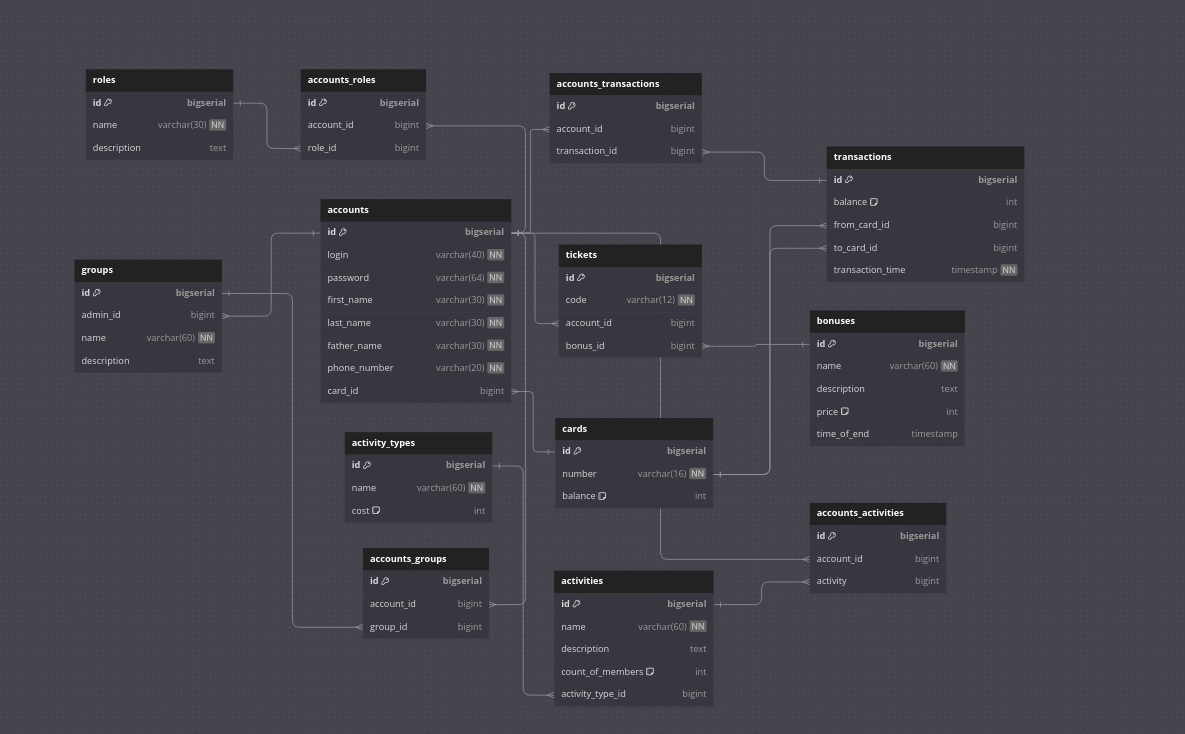
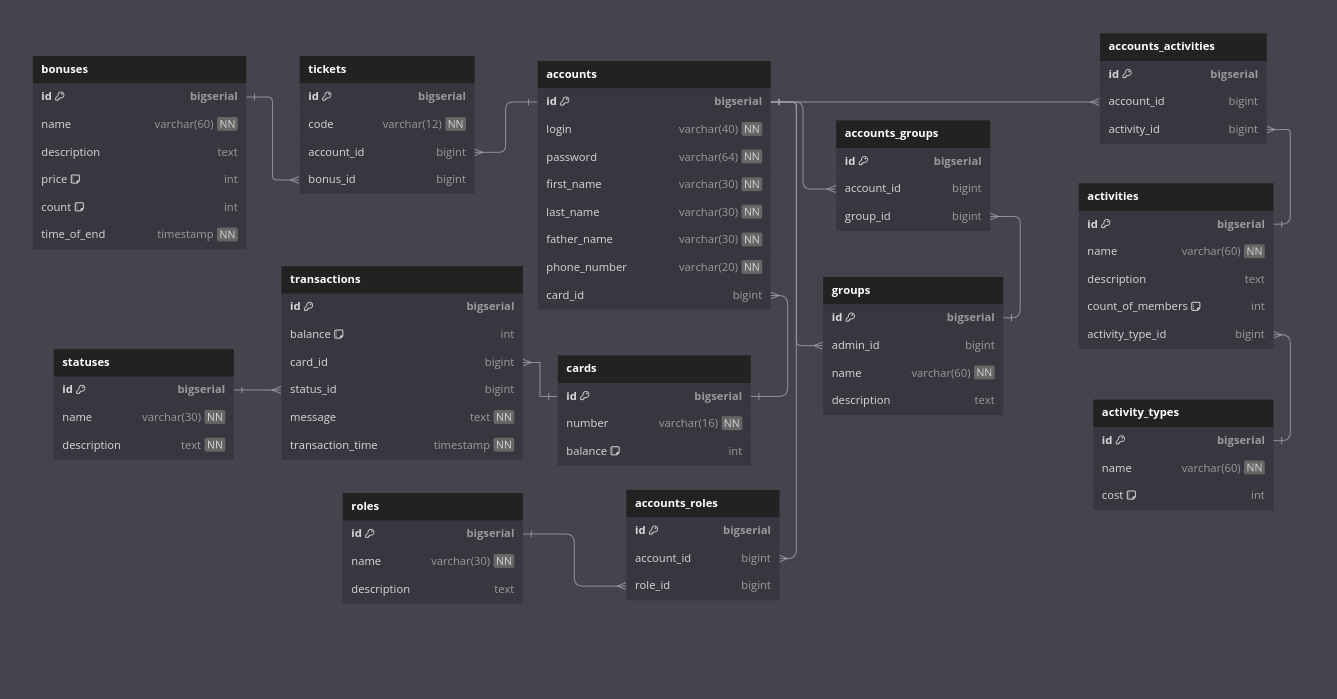
update transactions table

diff --git a/src/main/java/by/grsu/liceum/dto/mapper/TransactionDtoMapper.java b/src/main/java/by/grsu/liceum/dto/mapper/TransactionDtoMapper.java
@@ -1,7 +1,8 @@
 package by.grsu.liceum.dto.mapper;
 
-import by.grsu.liceum.dto.transaction.SentTransactionDto;
-import by.grsu.liceum.dto.transaction.TakenTransactionDto;
+import by.grsu.liceum.dto.status.StatusDto;
+import by.grsu.liceum.dto.transaction.TransactionDto;
+import by.grsu.liceum.entity.Status;
 import by.grsu.liceum.entity.Transaction;
 import lombok.experimental.UtilityClass;
 
@@ -9,33 +10,24 @@ import java.util.Optional;
 
 @UtilityClass
 public class TransactionDtoMapper {
-    public static TakenTransactionDto convertEntityToTakenDto(Transaction source){
+    public static TransactionDto convertEntityToDto(Transaction source){
         return Optional.ofNullable(source)
-                .map(TransactionDtoMapper::buildTakenDto)
+                .map(TransactionDtoMapper::buildDto)
                 .orElse(null);
     }
 
-    public static SentTransactionDto convertEntityToSentDto(Transaction source){
-        return Optional.ofNullable(source)
-                .map(TransactionDtoMapper::buildSentDto)
-                .orElse(null);
-    }
-
-    private static TakenTransactionDto buildTakenDto(Transaction source) {
-        return TakenTransactionDto.builder()
+    private static TransactionDto buildDto(Transaction source) {
+        return TransactionDto.builder()
                 .uuid(source.getId())
                 .balance(source.getBalance())
-                .fromCardNumber(source.getFromCard().getNumber())
+                .status(buildStatus(source.getStatus()))
                 .timeOfTransaction(source.getTimeOfTransaction())
                 .build();
     }
 
-    private static SentTransactionDto buildSentDto(Transaction source) {
-        return SentTransactionDto.builder()
-                .uuid(source.getId())
-                .balance(source.getBalance())
-                .toCardNumber(source.getToCard().getNumber())
-                .timeOfTransaction(source.getTimeOfTransaction())
-                .build();
+    private static StatusDto buildStatus(Status source){
+        return Optional.ofNullable(source)
+                .map(StatusDtoMapper::convertEntityToDto)
+                .orElse(null);
     }
 }

diff --git a/src/main/java/by/grsu/liceum/dto/mapper/CardDtoMapper.java b/src/main/java/by/grsu/liceum/dto/mapper/CardDtoMapper.java
@@ -1,8 +1,7 @@
 package by.grsu.liceum.dto.mapper;
 
 import by.grsu.liceum.dto.card.CardDto;
-import by.grsu.liceum.dto.transaction.SentTransactionDto;
-import by.grsu.liceum.dto.transaction.TakenTransactionDto;
+import by.grsu.liceum.dto.transaction.TransactionDto;
 import by.grsu.liceum.entity.Card;
 import by.grsu.liceum.entity.Transaction;
 import lombok.experimental.UtilityClass;
@@ -24,26 +23,25 @@ public class CardDtoMapper {
                 .uuid(source.getId())
                 .number(source.getNumber())
                 .balance(source.getBalance())
-                .sentTransactions(buildSentTransactions(source.getSentTransactions()))
-                .takenTransactions(buildTakenTransactions(source.getTakenTransactions()))
+                .transactions(buildTransactionDtos(source.getTransactions()))
                 .build();
     }
 
-    private static List<TakenTransactionDto> buildTakenTransactions(List<Transaction> source) {
+    private static List<TransactionDto> buildTransactionDtos(List<Transaction> source) {
         if(source == null)
             return new ArrayList<>();
 
         return source.stream()
-                .map(TransactionDtoMapper::convertEntityToTakenDto)
+                .map(TransactionDtoMapper::convertEntityToDto)
                 .toList();
     }
 
-    private static List<SentTransactionDto> buildSentTransactions(List<Transaction> source) {
+    private static List<TransactionDto> buildSentTransactions(List<Transaction> source) {
         if(source == null)
             return new ArrayList<>();
 
         return source.stream()
-                .map(TransactionDtoMapper::convertEntityToSentDto)
+                .map(TransactionDtoMapper::convertEntityToDto)
                 .toList();
     }
 }

diff --git a/src/main/java/by/grsu/liceum/entity/Status.java b/src/main/java/by/grsu/liceum/entity/Status.java
@@ -1,13 +1,13 @@
 package by.grsu.liceum.entity;
 
+import by.grsu.liceum.entity.enums.StatusConstant;
 import jakarta.persistence.Column;
 import jakarta.persistence.Entity;
 import jakarta.persistence.FetchType;
 import jakarta.persistence.GeneratedValue;
 import jakarta.persistence.GenerationType;
 import jakarta.persistence.Id;
-import jakarta.persistence.JoinColumn;
-import jakarta.persistence.ManyToOne;
+import jakarta.persistence.OneToMany;
 import jakarta.persistence.Table;
 import lombok.AllArgsConstructor;
 import lombok.Builder;
@@ -15,31 +15,28 @@ import lombok.Getter;
 import lombok.NoArgsConstructor;
 import lombok.Setter;
 
-import java.sql.Date;
+import java.util.List;
 
 @Entity
-@Table(name = "transactions")
+@Table(name = "statuses")
 @Builder
 @Getter
 @Setter
 @NoArgsConstructor
 @AllArgsConstructor
-public class Transaction {
+public class Status {
     @Id
     @GeneratedValue(strategy = GenerationType.IDENTITY)
-    @Column(name = "id")
     private long id;
-    @Column(name = "balance")
-    private int balance;
+    @Column(name = "name")
+    private StatusConstant name;
+    @Column(name = "description")
+    private String description;
 
-    @ManyToOne(fetch = FetchType.LAZY)
-    @JoinColumn(name = "card_id")
-    private Card card;
-
-    @ManyToOne(fetch = FetchType.LAZY)
-    @JoinColumn(name = "status_id")
-    private Status status;
-
-    @Column(name = "time_of_transaction")
-    private Date timeOfTransaction;
+    @OneToMany(
+            fetch = FetchType.LAZY,
+            mappedBy = "status",
+            orphanRemoval = true
+    )
+    private List<Transaction> transactions;
 }

diff --git a/src/main/java/by/grsu/liceum/dto/mapper/StatusDtoMapper.java b/src/main/java/by/grsu/liceum/dto/mapper/StatusDtoMapper.java
@@ -1,0 +1,24 @@
+package by.grsu.liceum.dto.mapper;
+
+import by.grsu.liceum.dto.status.StatusDto;
+import by.grsu.liceum.entity.Status;
+import lombok.experimental.UtilityClass;
+
+import java.util.Optional;
+
+@UtilityClass
+public class StatusDtoMapper {
+    public static StatusDto convertEntityToDto(Status source) {
+        return Optional.ofNullable(source)
+                .map(StatusDtoMapper::buildStatus)
+                .orElse(null);
+    }
+
+    private static StatusDto buildStatus(Status source) {
+        return StatusDto.builder()
+                .uuid(source.getId())
+                .name(source.getName().name())
+                .description(source.getDescription())
+                .build();
+    }
+}

diff --git a/src/main/java/by/grsu/liceum/dto/card/CardDto.java b/src/main/java/by/grsu/liceum/dto/card/CardDto.java
@@ -1,7 +1,6 @@
 package by.grsu.liceum.dto.card;
 
-import by.grsu.liceum.dto.transaction.SentTransactionDto;
-import by.grsu.liceum.dto.transaction.TakenTransactionDto;
+import by.grsu.liceum.dto.transaction.TransactionDto;
 import lombok.AllArgsConstructor;
 import lombok.Builder;
 import lombok.Getter;
@@ -19,6 +18,5 @@ public class CardDto {
     private long uuid;
     private String number;
     private int balance;
-    private List<SentTransactionDto> sentTransactions;
-    private List<TakenTransactionDto> takenTransactions;
+    private List<TransactionDto> transactions;
 }

diff --git a/src/main/java/by/grsu/liceum/dto/status/StatusDto.java b/src/main/java/by/grsu/liceum/dto/status/StatusDto.java
@@ -1,4 +1,4 @@
-package by.grsu.liceum.dto.transaction;
+package by.grsu.liceum.dto.status;
 
 import lombok.AllArgsConstructor;
 import lombok.Builder;
@@ -6,16 +6,13 @@ import lombok.Getter;
 import lombok.NoArgsConstructor;
 import lombok.Setter;
 
-import java.util.Date;
-
 @Builder
 @Getter
 @Setter
 @NoArgsConstructor
 @AllArgsConstructor
-public class SentTransactionDto {
+public class StatusDto {
     private long uuid;
-    private int balance;
-    private String toCardNumber;
-    private Date timeOfTransaction;
+    private String name;
+    private String description;
 }

diff --git a/src/main/java/by/grsu/liceum/dto/transaction/TransactionDto.java b/src/main/java/by/grsu/liceum/dto/transaction/TransactionDto.java
@@ -1,5 +1,6 @@
 package by.grsu.liceum.dto.transaction;
 
+import by.grsu.liceum.dto.status.StatusDto;
 import lombok.AllArgsConstructor;
 import lombok.Builder;
 import lombok.Getter;
@@ -13,9 +14,10 @@ import java.util.Date;
 @Setter
 @NoArgsConstructor
 @AllArgsConstructor
-public class TakenTransactionDto {
+public class TransactionDto {
     private long uuid;
     private int balance;
-    private String fromCardNumber; //todo optional switch to ownerName
+    private String cardNumber;
+    private StatusDto status;
     private Date timeOfTransaction;
 }

diff --git a/src/main/java/by/grsu/liceum/entity/Card.java b/src/main/java/by/grsu/liceum/entity/Card.java
@@ -42,15 +42,8 @@ public class Card {
 
     @OneToMany(
             fetch = FetchType.LAZY,
-            mappedBy = "fromCard",
+            mappedBy = "card",
             orphanRemoval = true
     )
-    private List<Transaction> sentTransactions;
-
-    @OneToMany(
-            fetch = FetchType.LAZY,
-            mappedBy = "toCard",
-            orphanRemoval = true
-    )
-    private List<Transaction> takenTransactions;
+    private List<Transaction> transactions;
 }

diff --git a/src/main/java/by/grsu/liceum/service/impl/CardServiceImpl.java b/src/main/java/by/grsu/liceum/service/impl/CardServiceImpl.java
@@ -39,8 +39,7 @@ public class CardServiceImpl implements CardService {
         Card card = Card.builder()
                 .number(Generator.generateCardNumber())
                 .balance(0)
-                .sentTransactions(new ArrayList<>())
-                .takenTransactions(new ArrayList<>())
+                .transactions(new ArrayList<>())
                 .build();
 
         //todo test

diff --git a/src/main/java/by/grsu/liceum/entity/enums/StatusConstant.java b/src/main/java/by/grsu/liceum/entity/enums/StatusConstant.java
@@ -1,0 +1,8 @@
+package by.grsu.liceum.entity.enums;
+
+public enum StatusConstant {
+    ADMIN_ACCRUAL_STATUS, //админ/препод начислил рейт
+    ACTIVITY_ACCRUAL_STATUS, //рейт за активность
+    WRITE_OFF_STATUS, //списали рейт
+    BUY_BONUS_STATUS //купил бонус - потерял рейт
+}

diff --git a/src/main/java/by/grsu/liceum/service/TransactionService.java b/src/main/java/by/grsu/liceum/service/TransactionService.java
@@ -1,5 +1,5 @@
 package by.grsu.liceum.service;
 
-public class TransactionService {
+public interface TransactionService {
     //todo
 }
